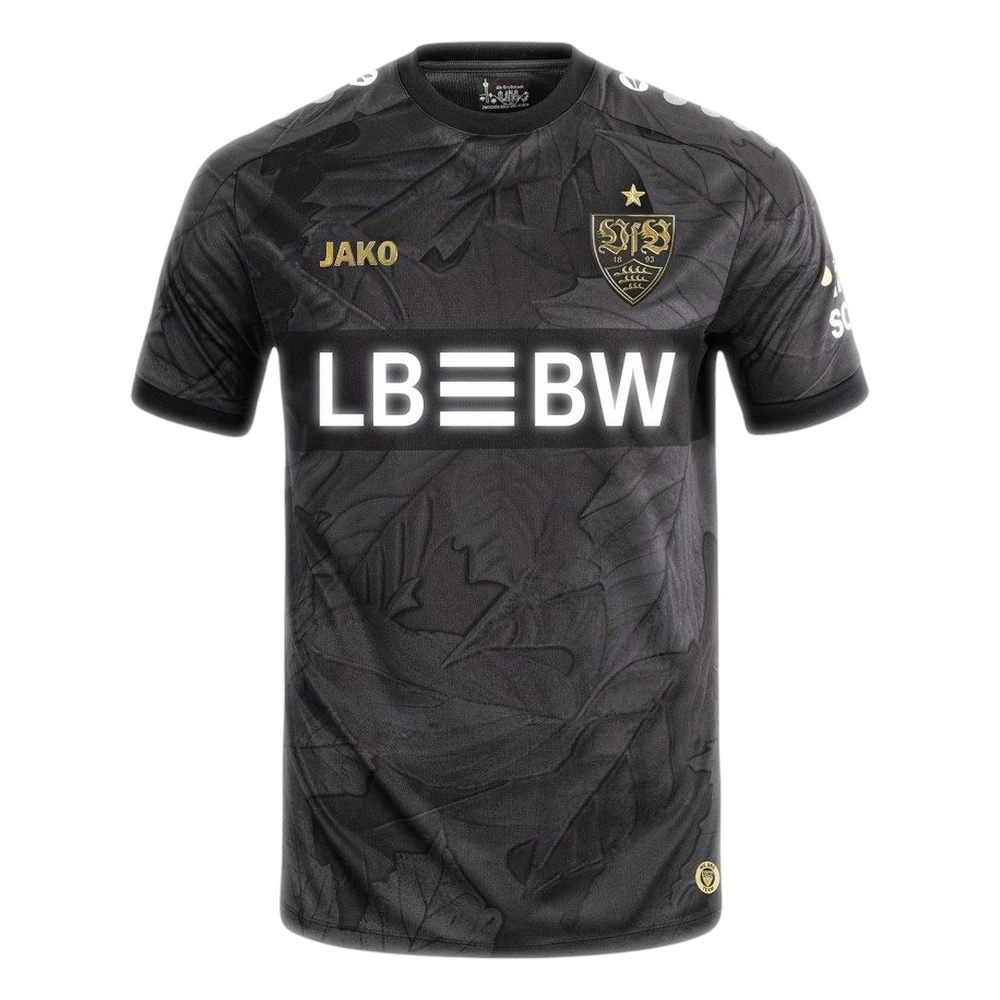
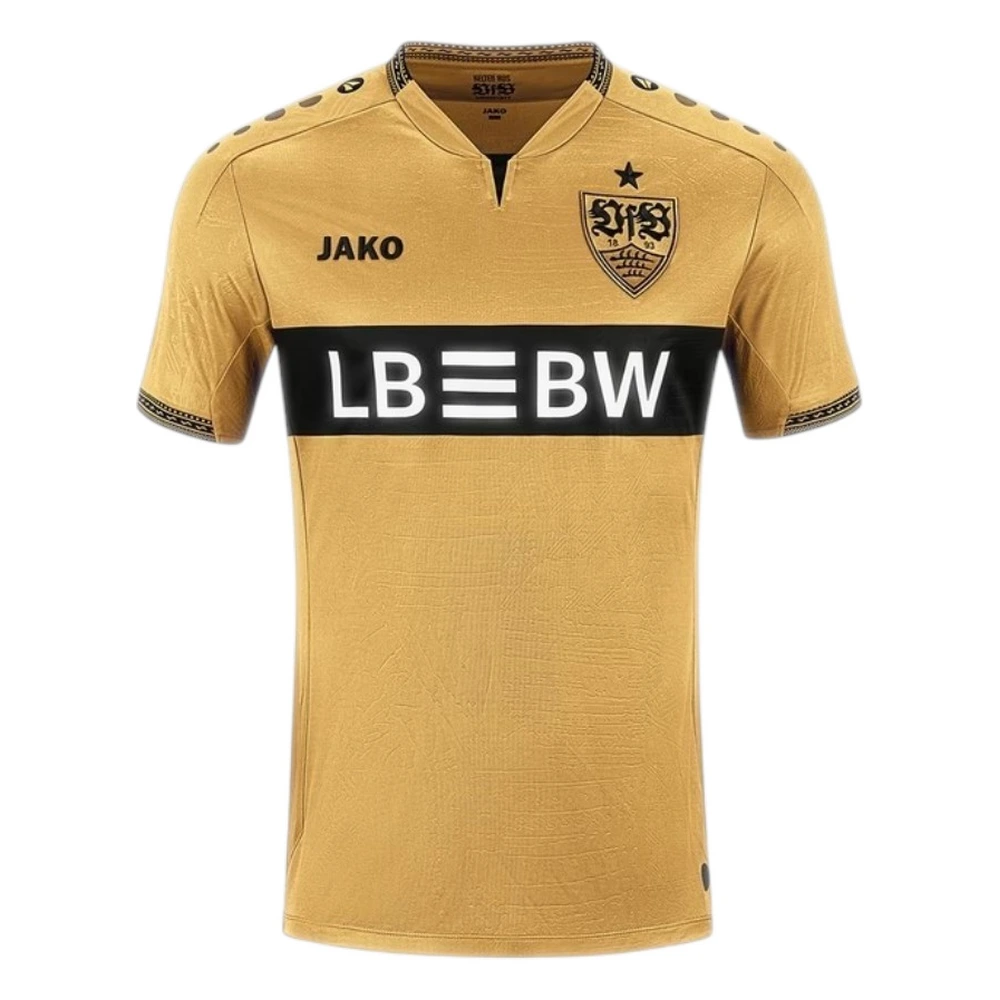
Corrige les maillots Stuttgart 2026-27 : Extérieur rouge, Third doré, noir en Fourth

diff --git a/index.html b/index.html
@@ -1998,8 +1998,9 @@ const products = [
   { id:771, club:'Venezia FC', name:'Maillot Extérieur', season:'2025-26', league:'Serie A', type:'standard', emoji:'👕', mainColor:'#E6DDD4', accentColor:'#5B3B45', flocageColor:'#111111', frontImage:'images/venezia-ext-2526-1.webp', carouselImages:['images/venezia-ext-2526-1.webp','images/venezia-ext-2526-2.webp'] },
   { id:772, club:'Venezia FC', name:'Maillot Third', season:'2025-26', league:'Serie A', type:'standard', emoji:'👕', mainColor:'#386459', accentColor:'#EB8368', flocageColor:'#FFFFFF', frontImage:'images/venezia-3rd-2526-1.webp', carouselImages:['images/venezia-3rd-2526-1.webp','images/venezia-3rd-2526-2.webp'] },
   { id:773, club:'VfB Stuttgart', name:'Maillot Domicile', season:'2026-27', league:'Bundesliga', type:'standard', emoji:'👕', mainColor:'#C51E2F', accentColor:'#DBBBBF', flocageColor:'#FFFFFF', frontImage:'images/stuttgart-home-2627-1.webp', carouselImages:['images/stuttgart-home-2627-1.webp','images/stuttgart-home-2627-2.webp'] },
-  { id:774, club:'VfB Stuttgart', name:'Maillot Extérieur', season:'2026-27', league:'Bundesliga', type:'standard', emoji:'👕', mainColor:'#D2A965', accentColor:'#4A3B2A', flocageColor:'#111111', frontImage:'images/stuttgart-ext-2627-1.webp', carouselImages:['images/stuttgart-ext-2627-1.webp','images/stuttgart-ext-2627-2.webp'] },
-  { id:775, club:'VfB Stuttgart', name:'Maillot Third', season:'2026-27', league:'Bundesliga', type:'standard', emoji:'👕', mainColor:'#3A383A', accentColor:'#B3B2B0', flocageColor:'#FFFFFF', frontImage:'images/stuttgart-3rd-2627-1.webp', carouselImages:['images/stuttgart-3rd-2627-1.webp'] },
+  { id:774, club:'VfB Stuttgart', name:'Maillot Extérieur', season:'2026-27', league:'Bundesliga', type:'standard', emoji:'👕', mainColor:'#D21F26', accentColor:'#FFFFFF', flocageColor:'#FFFFFF', frontImage:'images/stuttgart-ext-2627-1.webp', carouselImages:['images/stuttgart-ext-2627-1.webp','images/stuttgart-ext-2627-2.webp'] },
+  { id:775, club:'VfB Stuttgart', name:'Maillot Third', season:'2026-27', league:'Bundesliga', type:'standard', emoji:'👕', mainColor:'#D2A965', accentColor:'#4A3B2A', flocageColor:'#111111', frontImage:'images/stuttgart-3rd-2627-1.webp', carouselImages:['images/stuttgart-3rd-2627-1.webp','images/stuttgart-3rd-2627-2.webp'] },
+  { id:963, club:'VfB Stuttgart', name:'Maillot Fourth', season:'2026-27', league:'Bundesliga', type:'standard', emoji:'👕', mainColor:'#3A383A', accentColor:'#B3B2B0', flocageColor:'#FFFFFF', frontImage:'images/stuttgart-4th-2627-1.webp', carouselImages:['images/stuttgart-4th-2627-1.webp'] },
   { id:776, club:'VfL Wolfsburg', name:'Maillot Domicile', season:'2025-26', league:'2ème Division', subLeague:'Allemagne — 2. Bundesliga', type:'standard', emoji:'👕', mainColor:'#255E2F', accentColor:'#8CAE71', flocageColor:'#FFFFFF', frontImage:'images/wolfsburg-home-2526-1.webp', carouselImages:['images/wolfsburg-home-2526-1.webp','images/wolfsburg-home-2526-2.webp'] },
   { id:777, club:'VfL Wolfsburg', name:'Maillot Extérieur', season:'2025-26', league:'2ème Division', subLeague:'Allemagne — 2. Bundesliga', type:'standard', emoji:'👕', mainColor:'#C5C5C5', accentColor:'#5C5D5B', flocageColor:'#111111', frontImage:'images/wolfsburg-ext-2526-1.webp', carouselImages:['images/wolfsburg-ext-2526-1.webp','images/wolfsburg-ext-2526-2.webp'] },
   { id:778, club:'Watford', name:'Maillot Domicile', season:'2026-27', league:'2ème Division', subLeague:'Angleterre — Championship', type:'standard', emoji:'👕', mainColor:'#DFD534', accentColor:'#5E2D21', flocageColor:'#111111', frontImage:'images/watford-home-2627-1.webp', carouselImages:['images/watford-home-2627-1.webp','images/watford-home-2627-2.webp'] },
